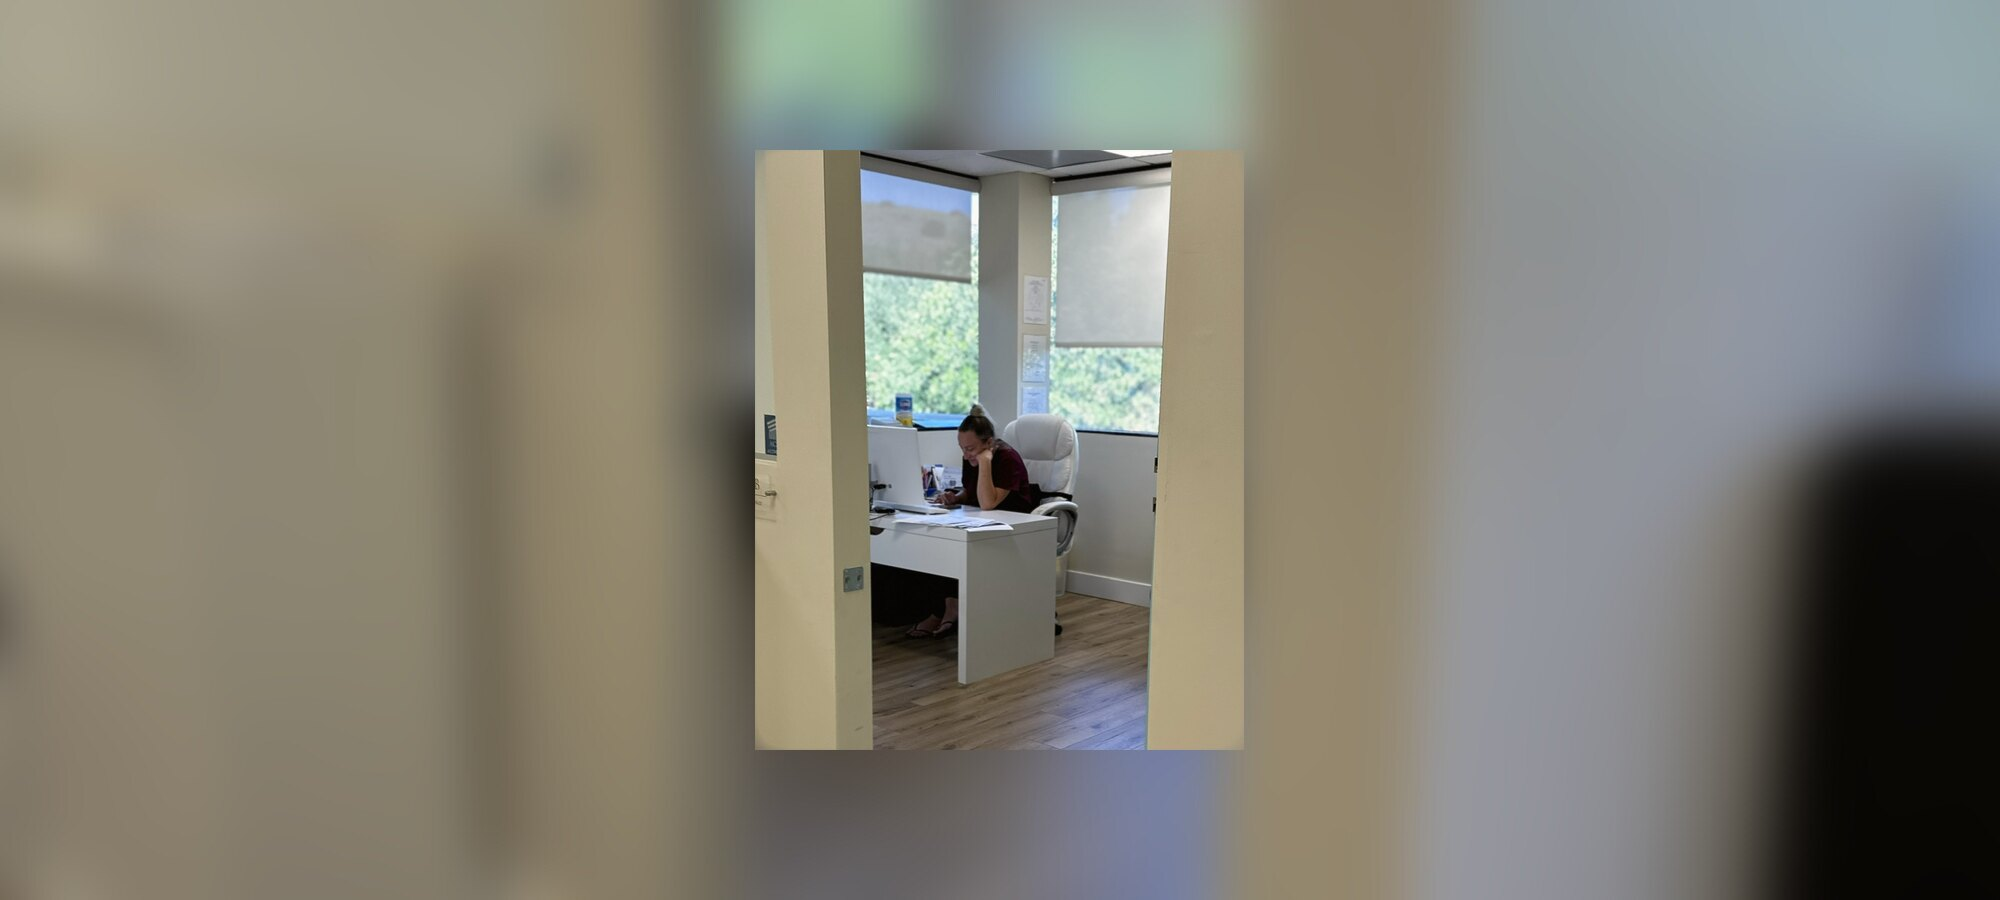
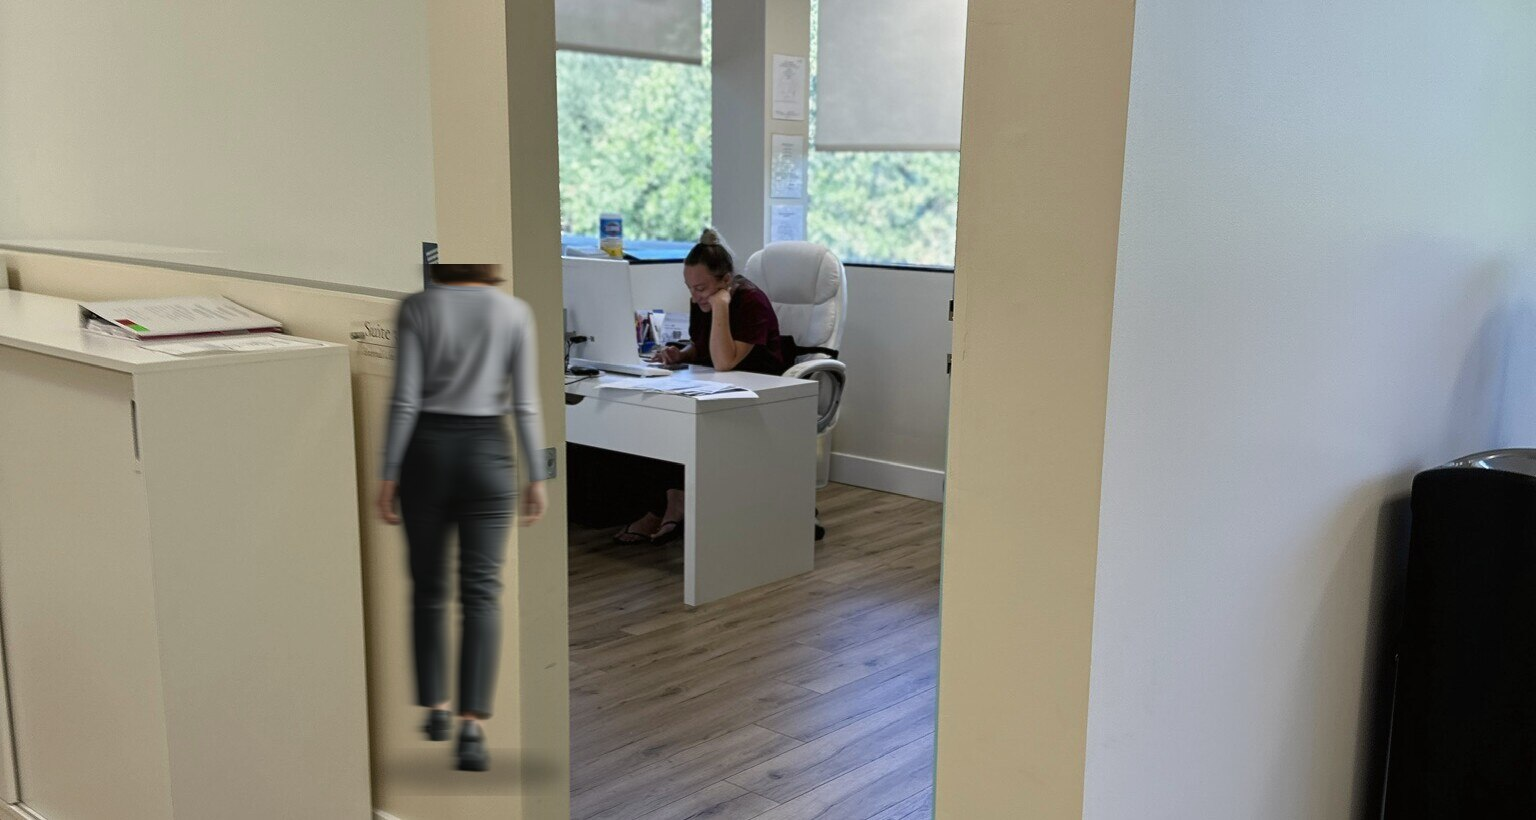
Update careers hero image to include a walking figure
Update careers hero image to use a single coherent crop with a composited, motion-blurred walking figure, replacing the previous blurred-fill technique. This resolves visual artifacts from lighter blur levels and adds a person without facial features to convey a busy office scene. Metadata and architecture memory files are also updated.

Replit-Commit-Author: Agent
Replit-Commit-Session-Id: 1b958849-79a5-4566-be53-e68529931cd0
Replit-Commit-Checkpoint-Type: full_checkpoint
Replit-Commit-Event-Id: bbfdb2e3-54b1-4e4b-8865-7ea4eefbd6de
Replit-Commit-Screenshot-Url: https://storage.googleapis.com/screenshot-production-us-central1/e1b2f643-7869-4565-af0e-10c34575ee8d/1b958849-79a5-4566-be53-e68529931cd0/nAltnTh
Replit-Helium-Checkpoint-Created: true

diff --git a/.agents/memory/elh-site-architecture.md b/.agents/memory/elh-site-architecture.md
@@ -120,6 +120,11 @@ description: Which pages use shared elh.css vs inline-only CSS in the elh-previe
 - All `<img>` carry `alt` (decorative = `alt=""`); below-the-fold imgs have `loading="lazy" decoding="async"`; the 62 header-logo imgs (`sym-cream`/`sym-plum`, 2×31 pages) stay EAGER for LCP. Re-run the lazy script idempotently (skips tags with `loading=` and logo classes).
 - SEO/Netlify control files live at the publish root `website/elh-preview/`: `robots.txt`, `sitemap.xml`, `llms.txt` (AI-crawler summary), `_headers` (security headers on `/*`, 1-day cache `/assets/*`, 1yr immutable `/assets/fonts/*`). Keep sitemap URLs in clean form (no `.html`).
 
+## Hero photos from portrait sources — coherent crop vs blurred-fill (decided)
+- For wide-short hero/card containers fed by a PORTRAIT photo, the "blurred-fill framing" trick (sharp center crop centered over a blurred+extended copy of itself) ONLY reads well with HEAVY blur (~0x24+). With LIGHT blur the legible background looks like a pasted, misaligned DUPLICATE box. So if the user wants the scene to look sharp/clear, DON'T light-blur the wings — switch to a SINGLE coherent landscape crop of the real photo (the room's own walls frame it) and accept normal `center/cover` top/bottom cropping on extreme aspect ratios.
+- **Adding a person to a real photo:** generateImage is text-only (no inpaint/edit). To add someone, generate a faceless cutout (`removeBackground:true`, back/side view, neutral attire), then composite with `magick` adding a horizontal `-motion-blur` + a soft blurred-ellipse contact shadow. Motion blur both says "busy office" and hides paste seams; back view = no face by construction. Composite onto the coherent crop, then view before applying.
+- **Why:** the careers hero went heavy-blur → user wanted "less blur + a person"; light-blur wings exposed the duplicate-box artifact, so the coherent-crop + motion-blurred walking cutout was the fix.
+
 ## Chatbot (guided + AI)
 - Widget: `assets/chat.js` — fully self-contained (injects its own <style>+markup) because index.html & resources.html don't link elh.css. Loaded via `<script src="/assets/chat.js" defer>` on all 33 pages (before </body>). Guided FAQ chips + free-text. Emergency + clinical regex short-circuit in code → route to 24/7 line / 911, never sent to AI.
 - Collapsed launcher is a DISCREET single circular icon button (no phone pill, no text label) — user explicitly chose this to mimic westlakevillagehospice.com's chat bubble. **Why it matters:** the phone number is intentionally NOT shown until the panel opens (the gold "Call" button is the top item in the panel header). Do NOT "restore" an always-visible call pill to the collapsed dock — that was the prior design the user deliberately replaced.
